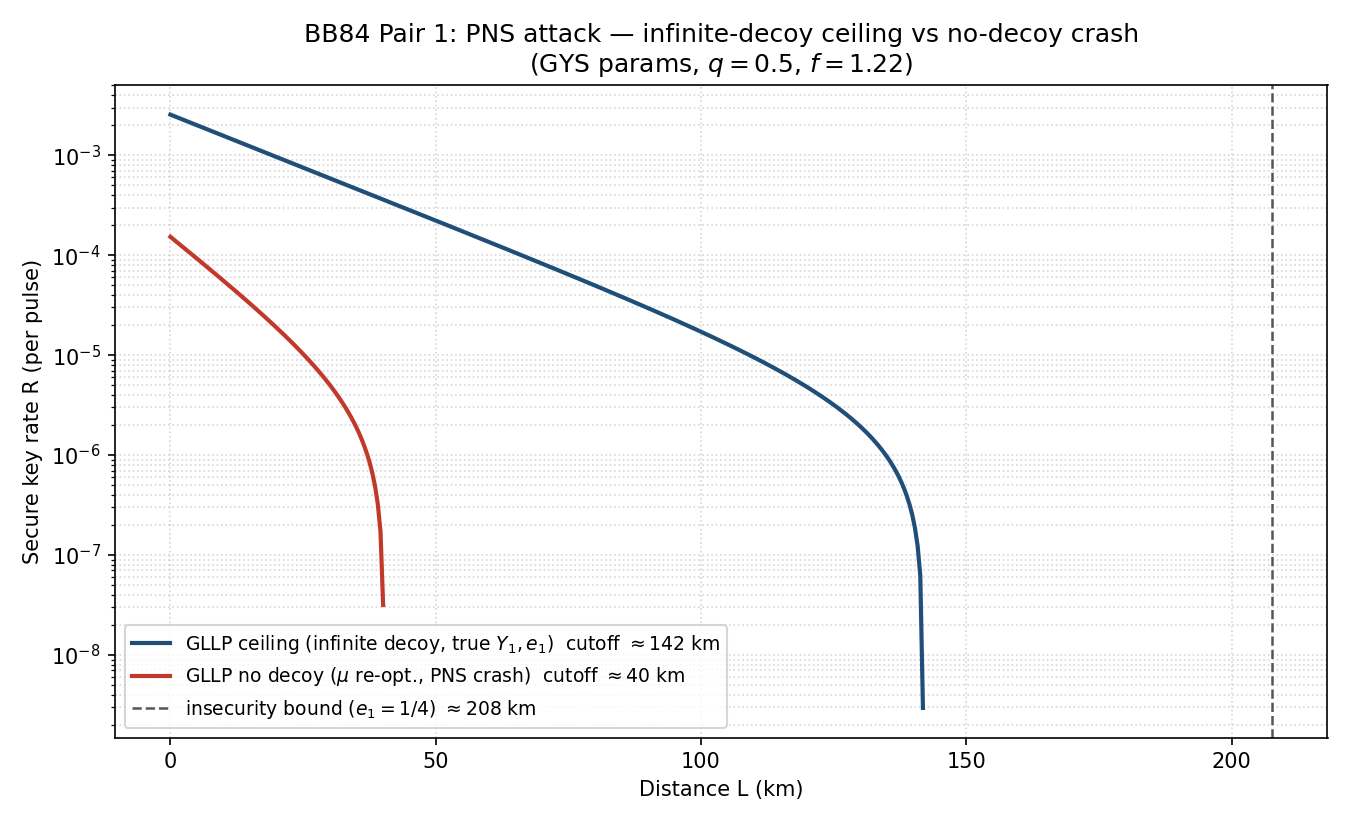
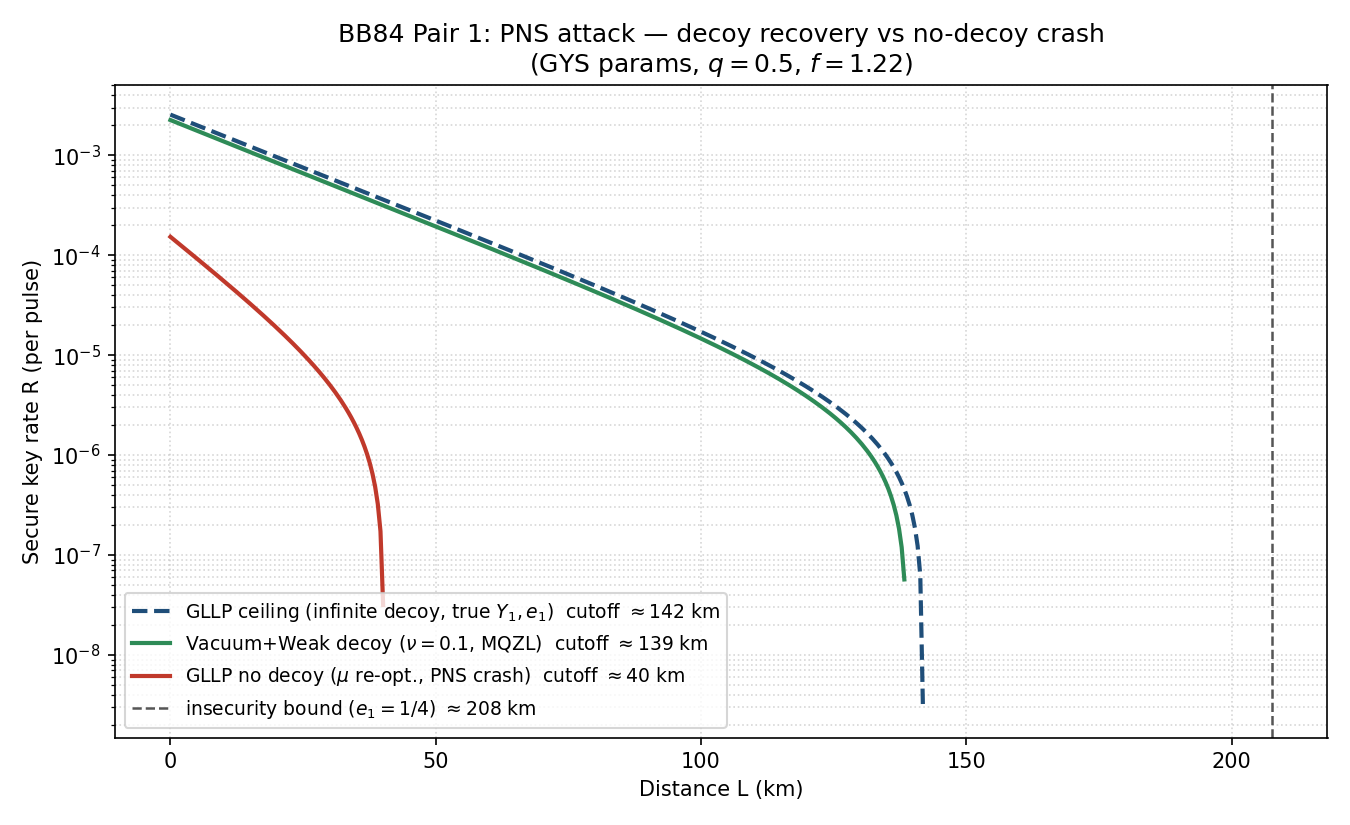
Milestone 2b: Vacuum+Weak decoy recovery (BB84 Pair 1 complete)
decoy.py: MQZL Section 3.4 Vacuum+Weak estimators, coded from the printed
simplified forms:
- y1_lower  (Eq. 34)  single-photon yield lower bound Y1^L
- q1_lower  (Eq. 35)  single-photon gain  Q1^L = Y1^L * mu e^-mu
- e1_upper  (Eq. 37)  single-photon QBER upper bound e1^U
- decoy_key_rate: simulate Q_mu/E_mu/Q_nu/E_nu/Y0 -> estimators -> gllp_key_rate
Weak decoy nu fixed at 0.1 (provisional; MQZL optimize it -- revisit later).

sweep.py: three-curve Pair-1 plot (ceiling / decoy recovery / no-decoy crash)
+ insecurity bound.

Validation: decoy cutoff ~139 km (LMC ~140), recovers from the ~40 km crash;
Y1^L tracks ~97% of true Y1. Ceiling ~142, insecurity ~208.

diff --git a/src/decoy.py b/src/decoy.py
@@ -3,16 +3,121 @@ Practical decoy-state defense for BB84 Pair 1: the Vacuum + Weak decoy method.
 
 The real "decoy recovery" curve. Alice interleaves three intensities -- signal
 mu, one weak decoy nu, and vacuum (0) -- and from the measured per-intensity
-gains/QBERs (Q_mu, E_mu, Q_nu, E_nu, Y_0) Bob ESTIMATES the single-photon
-lower/upper bounds Y_1^L and e_1^U WITHOUT assuming the honest-channel values.
-Those estimates then feed the shared gllp_key_rate (LMC Eq. 11), so the decoy
-curve sits just below the ceiling and far above the no-decoy crash.
+gains/QBERs (Q_mu, E_mu, Q_nu, E_nu, Y0) Bob ESTIMATES the single-photon
+lower/upper bounds Y1^L and e1^U WITHOUT assuming the honest-channel values.
+Those estimates then feed the shared gllp_key_rate (LMC Eq. 11 = MQZL Eq. 26),
+so the decoy curve sits just below the ceiling and far above the no-decoy crash.
 
-Source (to be coded directly from the PDF): Ma, Qi, Zhao & Lo (MQZL),
-"Practical Decoy State for QKD", quant-ph/0503005v5 -- the Vacuum+Weak
-estimators for Y_1^L / e_1^U and the choice of nu.
+Equations coded directly from Ma, Qi, Zhao & Lo (MQZL), "Practical Decoy State
+for QKD", quant-ph/0503005v5, Section 3.4 "Vacuum+Weak decoy state" -- the
+PRINTED simplified (nu2=0) forms Eqs. 33, 34, 35, 37 (student choice 1(ii):
+transcribe the special-case equations, not hand-specialize the general ones).
 
-STATUS: not yet implemented. Next step -- pull the exact MQZL estimator
-equations (and their equation numbers) from refs/MQZL_0503005.pdf, then build
-one function at a time (yield/error estimators -> decoy key rate).
+In this SIMULATION the "measurements" are computed from the device model in
+keyrate (q_mu/e_mu at intensities mu and nu, Y0 = p_dark), then fed to the
+estimators below -- exactly what a real experiment would measure.
 """
+
+from math import exp
+
+from keyrate import q_mu, e_mu, gllp_key_rate, MU, P_DARK, F_EC, Q_SIFT
+
+# Weak decoy intensity nu. MUST satisfy nu < mu (MQZL Eq. 15).
+# PROVISIONAL: fixed at 0.1 for the first pass. MQZL actually OPTIMIZE nu
+# (pp.14/19); revisiting this to add per-distance nu optimization (like
+# optimize_no_decoy) is a planned refinement -- see memory decoy-nu-fixed-revisit.
+NU = 0.1
+
+
+def y1_lower(Q_mu, Q_nu, Y0, mu, nu):
+    """
+    Lower bound on the single-photon yield Y1, Vacuum+Weak decoy method.
+
+    MQZL Eq. 34:
+        Y1 >= Y1^{L,nu,0}
+            = mu/(mu*nu - nu^2)
+              * [ Q_nu*e^nu - (nu^2/mu^2)*Q_mu*e^mu - ((mu^2-nu^2)/mu^2)*Y0 ]
+
+    This is the crux of decoy: from only the MEASURED gains Q_mu (signal),
+    Q_nu (weak decoy) and Y0 (vacuum), it bounds how much of Bob's detection
+    rate must have come from single photons -- WITHOUT trusting the device
+    model. Contrast the no-decoy Omega (a crude worst case): here the second
+    intensity nu gives an extra equation, so the bound is far tighter and the
+    reach climbs back toward the ceiling.
+
+    Terms:
+      - Q_nu*e^nu, Q_mu*e^mu : the measured gains with the Poisson e^{intensity}
+        factor stripped off (so each becomes sum_i Y_i * intensity^i / i!).
+      - the mu/nu prefactor and the (nu^2/mu^2), (mu^2-nu^2)/mu^2 weights come
+        from solving the two decoy gain equations for Y1 (MQZL Eqs. 16-21
+        specialized to nu2=0, where the vacuum makes the Y0 bound tight).
+
+    Assumes nu < mu (Eq. 15) so the denominator mu*nu - nu^2 = nu(mu-nu) > 0.
+    """
+    num = (Q_nu * exp(nu)
+           - (nu ** 2 / mu ** 2) * Q_mu * exp(mu)
+           - ((mu ** 2 - nu ** 2) / mu ** 2) * Y0)
+    return (mu / (mu * nu - nu ** 2)) * num
+
+
+def q1_lower(Y1_L, mu):
+    """
+    Lower bound on the single-photon GAIN Q1, Vacuum+Weak decoy method.
+
+    MQZL Eq. 35:  Q1^{L,nu,0} = Y1^{L,nu,0} * mu * e^{-mu}
+
+    This is just the Y1 lower bound (Eq. 34) times the Poisson weight that a
+    signal pulse holds exactly one photon, mu*e^{-mu} -- identical in form to
+    LMC Eq. 10 (Q1 = Y1 * mu * e^{-mu}), now applied to the ESTIMATED Y1^L
+    instead of the true Y1. Converts "how often a single photon clicks" into
+    "how often a single-photon detection happens per pulse", the quantity the
+    key-rate formula's good term actually needs.
+    """
+    return Y1_L * mu * exp(-mu)
+
+
+def e1_upper(E_nu, Q_nu, Y0, Y1_L, nu, e0=0.5):
+    """
+    Upper bound on the single-photon QBER e1, Vacuum+Weak decoy method.
+
+    MQZL Eq. 37:
+        e1 <= e1^{U,nu,0} = (E_nu*Q_nu*e^nu - e0*Y0) / (Y1^{L,nu,0} * nu)
+
+    From the weak decoy's error rate E_nu*Q_nu, subtract the errors that the
+    vacuum/background contributes (e0*Y0, with e0 = 1/2 the dark-count QBER,
+    MQZL Eq. 33), leaving the error attributable to single photons; divide by
+    the single-photon weight nu*Y1^L to turn it into a per-single-photon error
+    fraction. Using Y1^L (a LOWER bound) in the DENOMINATOR makes e1 an UPPER
+    bound -- the conservative direction, as required for security.
+    """
+    return (E_nu * Q_nu * exp(nu) - e0 * Y0) / (Y1_L * nu)
+
+
+def decoy_key_rate(mu, eta, p_dark, e_detector, nu=NU, f=F_EC, q=Q_SIFT):
+    """
+    Secure key rate per pulse for BB84 with Vacuum+Weak decoy states.
+
+    MQZL Eq. 26 (= LMC Eq. 11 with ESTIMATED single-photon bounds):
+        R >= q{ -Q_mu f(E_mu) H2(E_mu) + Q1^L [1 - H2(e1^U)] }
+
+    Pipeline:
+      1. "Measure" the three intensities from the device model:
+         Q_mu, E_mu (signal), Q_nu, E_nu (weak decoy), Y0 = Q_vacuum (Eq. 33).
+      2. Estimate the single-photon bounds Y1^L (Eq. 34), Q1^L (Eq. 35),
+         e1^U (Eq. 37) -- WITHOUT using the true single-photon values.
+      3. Feed Q1^L / e1^U into the shared gllp_key_rate combiner.
+
+    The only difference from ceiling_key_rate is step 2: the ceiling uses the
+    true Q1/e1, this uses decoy-estimated bounds. Same security formula.
+    """
+    Q_mu = q_mu(mu, eta, p_dark)
+    E_mu = e_mu(mu, eta, p_dark, e_detector)
+    Q_nu = q_mu(nu, eta, p_dark)
+    E_nu = e_mu(nu, eta, p_dark, e_detector)
+    Y0 = q_mu(0.0, eta, p_dark)        # vacuum gain Q_vacuum = Y0 (MQZL Eq. 33)
+
+    Y1_L = y1_lower(Q_mu, Q_nu, Y0, mu, nu)
+    Q1_L = q1_lower(Y1_L, mu)
+    e1_U = e1_upper(E_nu, Q_nu, Y0, Y1_L, nu)
+
+    return gllp_key_rate(Q_mu, E_mu, Q1_L, e1_U, f=f, q=q)

diff --git a/src/sweep.py b/src/sweep.py
@@ -27,6 +27,7 @@ PAIR1_OUTFILE = os.path.join(REPO_ROOT, "figures", "bb84_pair1_pns_crash.png")
 from keyrate import e_1, eta_overall, MU, P_DARK, E_DETECTOR, F_EC, Q_SIFT
 from ceiling import ceiling_key_rate
 from no_decoy import optimize_no_decoy
+from decoy import decoy_key_rate, NU
 
 # Sweep range for the single swept variable, distance L (km). Extends past the
 # ~208 km insecurity bound so that bound is visible on the plot.
@@ -57,6 +58,18 @@ def sweep_no_decoy(L_km):
     """
     return np.array([
         optimize_no_decoy(eta_overall(L), P_DARK, E_DETECTOR, f=F_EC, q=Q_SIFT)[0]
+        for L in L_km
+    ])
+
+
+def sweep_decoy(L_km):
+    """
+    Vacuum+Weak decoy secure key rate at each L (MQZL Eqs. 34/35/37 -> Eq. 26),
+    with frozen signal mu = MU and weak decoy nu = NU. Returns a numpy array of
+    R per pulse. This is the real decoy-RECOVERY curve.
+    """
+    return np.array([
+        decoy_key_rate(MU, eta_overall(L), P_DARK, E_DETECTOR, nu=NU, f=F_EC, q=Q_SIFT)
         for L in L_km
     ])
 
@@ -118,22 +131,27 @@ def plot_key_rate(L_km, R, cutoff=None, outfile=DEFAULT_OUTFILE):
     return fig
 
 
-def plot_pair1(L_km, R_ceiling, R_no_decoy, insecurity, outfile=PAIR1_OUTFILE):
+def plot_pair1(L_km, R_ceiling, R_decoy, R_no_decoy, insecurity, outfile=PAIR1_OUTFILE):
     """
-    Milestone-2 Pair-1 plot: infinite-decoy ceiling vs no-decoy PNS-crash,
-    plus the insecurity bound, reproducing LMC Fig. 1's structure. Insecure
-    points (R <= 0) are masked so each curve ends at its own cutoff.
+    Milestone-2 Pair-1 plot: the three-curve PNS story -- infinite-decoy
+    ceiling, practical Vacuum+Weak decoy RECOVERY, and no-decoy PNS crash --
+    plus the insecurity bound, reproducing LMC Fig. 1. Insecure points
+    (R <= 0) are masked so each curve ends at its own cutoff.
     """
     # Cutoffs from the RAW (signed) arrays passed in, BEFORE masking -- do not
     # re-run the sweeps (the no-decoy sweep is ~220k rate evals).
     c_ceiling = cutoff_distance(L_km, R_ceiling)
+    c_decoy = cutoff_distance(L_km, R_decoy)
     c_nod = cutoff_distance(L_km, R_no_decoy)
     R_ceiling = np.where(np.asarray(R_ceiling) > 0, R_ceiling, np.nan)
+    R_decoy = np.where(np.asarray(R_decoy) > 0, R_decoy, np.nan)
     R_no_decoy = np.where(np.asarray(R_no_decoy) > 0, R_no_decoy, np.nan)
 
     fig, ax = plt.subplots(figsize=(9, 5.5))
-    ax.semilogy(L_km, R_ceiling, color="#1f4e79", lw=2,
+    ax.semilogy(L_km, R_ceiling, color="#1f4e79", lw=2, ls="--",
                 label=f"GLLP ceiling (infinite decoy, true $Y_1,e_1$)  cutoff $\\approx${c_ceiling:.0f} km")
+    ax.semilogy(L_km, R_decoy, color="#2e8b57", lw=2,
+                label=f"Vacuum+Weak decoy ($\\nu={NU}$, MQZL)  cutoff $\\approx${c_decoy:.0f} km")
     ax.semilogy(L_km, R_no_decoy, color="#c0392b", lw=2,
                 label=f"GLLP no decoy ($\\mu$ re-opt., PNS crash)  cutoff $\\approx${c_nod:.0f} km")
     ax.axvline(insecurity, color="#555555", ls="--", lw=1.2,
@@ -141,7 +159,7 @@ def plot_pair1(L_km, R_ceiling, R_no_decoy, insecurity, outfile=PAIR1_OUTFILE):
 
     ax.set_xlabel("Distance L (km)")
     ax.set_ylabel("Secure key rate R (per pulse)")
-    ax.set_title("BB84 Pair 1: PNS attack — infinite-decoy ceiling vs no-decoy crash\n"
+    ax.set_title("BB84 Pair 1: PNS attack — decoy recovery vs no-decoy crash\n"
                  f"(GYS params, $q={Q_SIFT}$, $f={F_EC}$)")
     ax.grid(True, which="both", ls=":", alpha=0.5)
     ax.legend(loc="lower left", fontsize=9)
@@ -155,11 +173,13 @@ if __name__ == "__main__":
     L_km = np.linspace(L_MIN_KM, L_MAX_KM, L_POINTS)
 
     R_ceiling = sweep_ceiling(L_km)
+    R_decoy = sweep_decoy(L_km)
     R_no_decoy = sweep_no_decoy(L_km)
     insecurity = insecurity_distance()
 
     print(f"ceiling cutoff ~ {cutoff_distance(L_km, R_ceiling):.1f} km")
+    print(f"decoy (Vacuum+Weak) cutoff ~ {cutoff_distance(L_km, R_decoy):.1f} km")
     print(f"no-decoy crash cutoff ~ {cutoff_distance(L_km, R_no_decoy):.1f} km")
     print(f"insecurity bound (e_1=1/4) ~ {insecurity:.1f} km")
 
-    plot_pair1(L_km, R_ceiling, R_no_decoy, insecurity)
+    plot_pair1(L_km, R_ceiling, R_decoy, R_no_decoy, insecurity)
